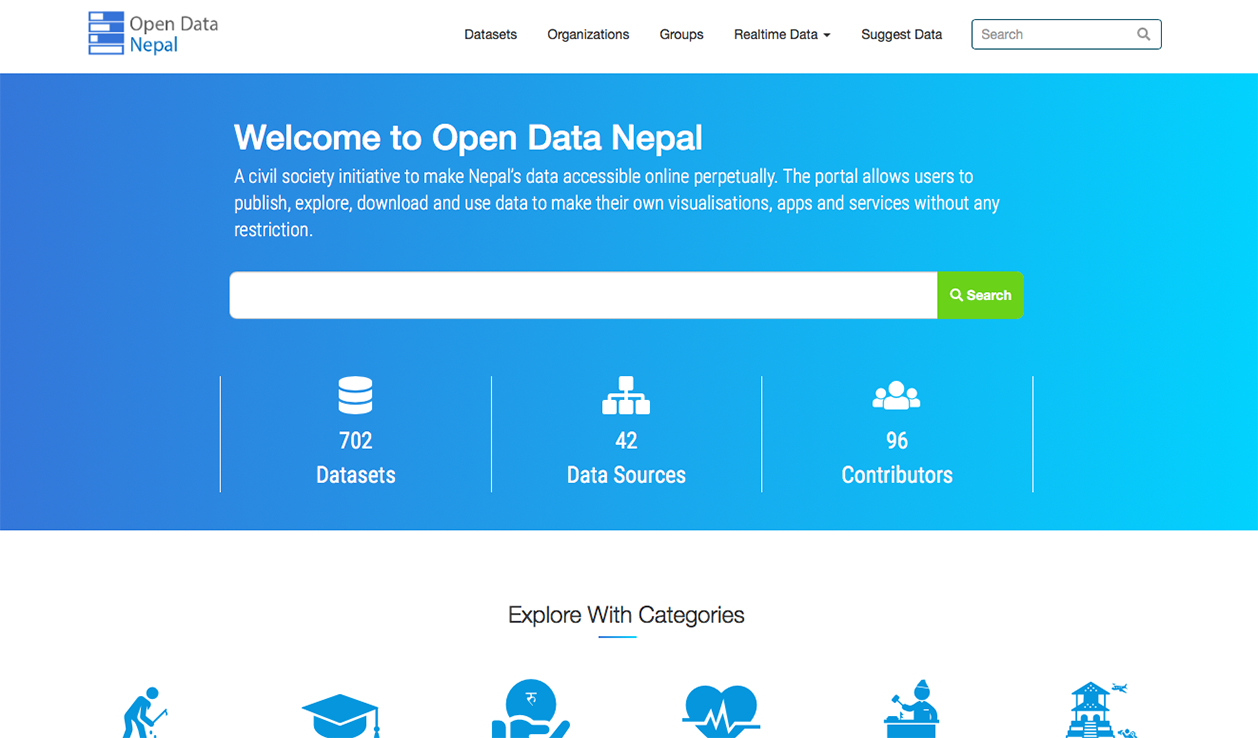
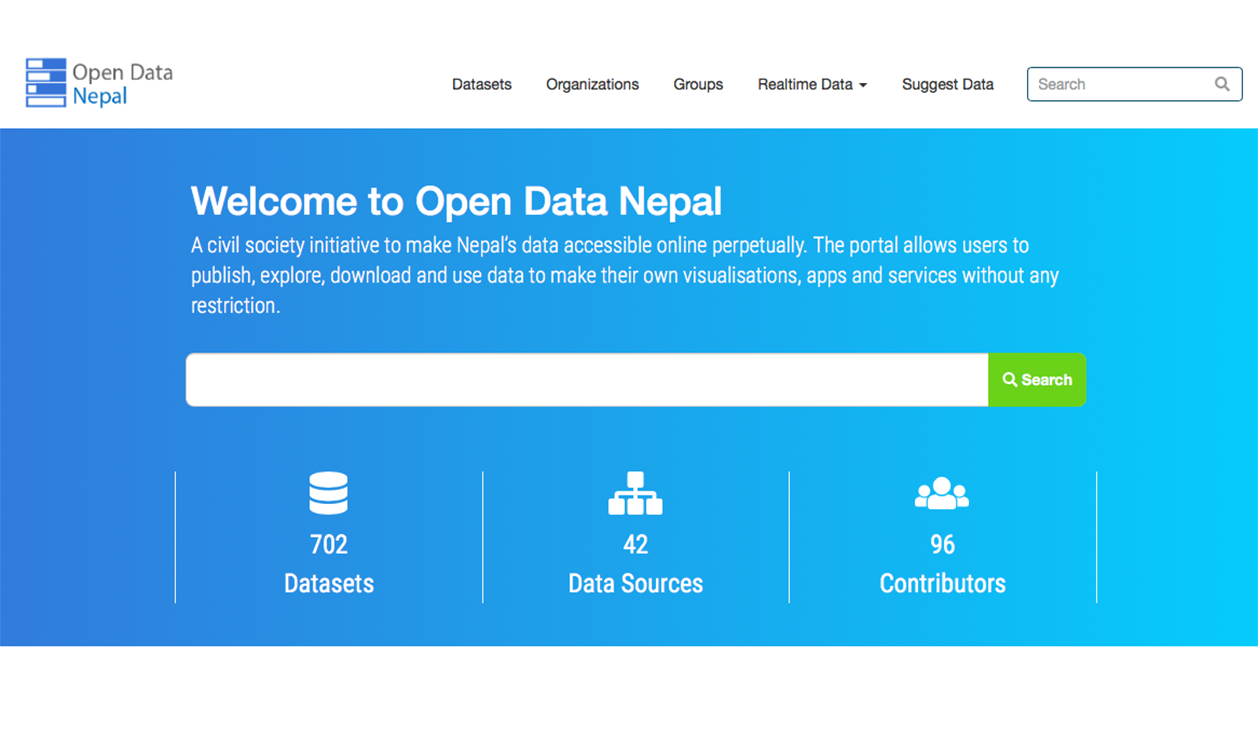
featured project update

diff --git a/_includes/featured-projects.html b/_includes/featured-projects.html
@@ -15,18 +15,10 @@
       </figcaption>
     </div>
 
-    <div class="project screentime">
-      <figure class="project__pic phones">
-        <a href="https://play.google.com/store/apps/details?id=com.starry.management" target="_blank">
-          <div class="phone">
-            <img src="{{site.baseurl}}/img/featured/screentime/screentime1.png" alt="">
-          </div>
-          <div class="phone">
-            <img src="{{site.baseurl}}/img/featured/screentime/screentime3.png" alt="">
-          </div>
-          <div class="phone">
-            <img src="{{site.baseurl}}/img/featured/screentime/screentime4.png" alt="">
-          </div>
+    <div class="project blistabloc">
+      <figure class="project__pic">
+        <a href="http://opendatanepal.com" target="_blank">
+          <img src="{{site.baseurl}}/img/featured/opendatanepal/opendatanepal.png" alt="">
         </a>
       </figure>
       <figcaption class="project__caption">
